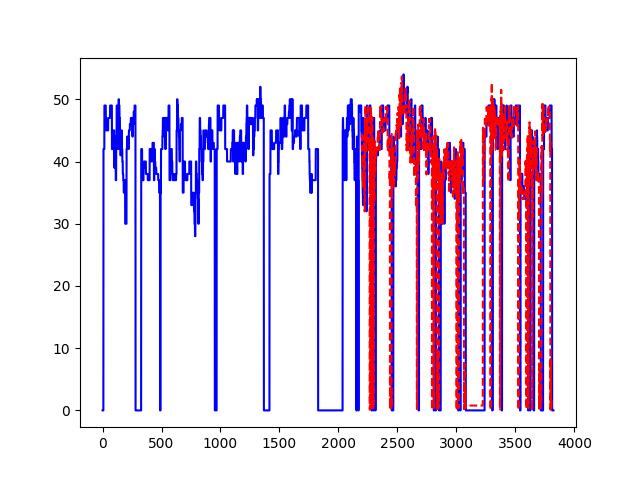
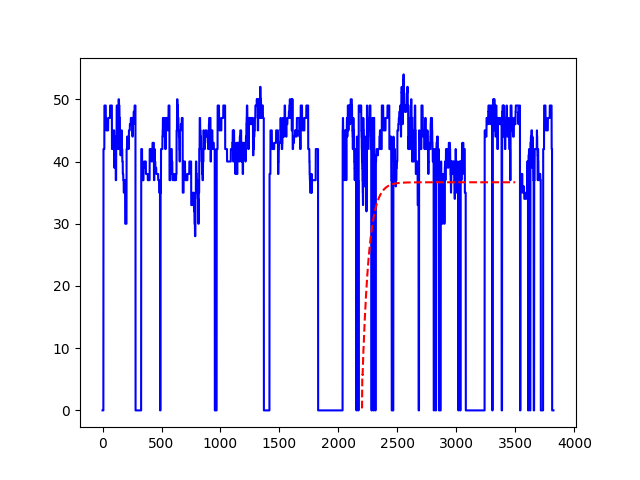
fixed plot

Changed region(s): [[0.5625, 0.1562, 0.875, 0.875]]

diff --git a/reduce.py b/reduce.py
@@ -95,10 +95,20 @@ def use_manual_split(voice, voice_windows):
 
     window_model = LinearRegression()
     window_model.fit(X_train, y_train)
-    y_predictions = window_model.predict(X_test)
+
+    y_predictions = []
+
+    for i in range(2200, 3500):
+        last_window = voice_windows[-1]
+        new_x = last_window[1:]  # shift one right
+        new_y = window_model.predict([new_x])[0]
+        y_predictions.append(new_y)
+        new_window = np.append(new_x, new_y)
+        voice_windows = np.vstack([voice_windows, new_window])
+
     plt.clf()
     plt.plot(voice, 'b-')
-    plt.plot(range(2200, len(voice_windows)), y_predictions, 'r--')
+    plt.plot(range(2200, 3500), y_predictions, 'r--')
     plt.savefig('ownFold.png')
 
 
@@ -123,5 +133,5 @@ def predict_new_data(voice, original_windows):
 
 
 voice_windows = construct_windows(voice_4, 16)
-# use_manual_split(voice_4, voice_windows)
-predict_new_data(voice_4, voice_windows)
+use_manual_split(voice_4, voice_windows)
+# predict_new_data(voice_4, voice_windows)
